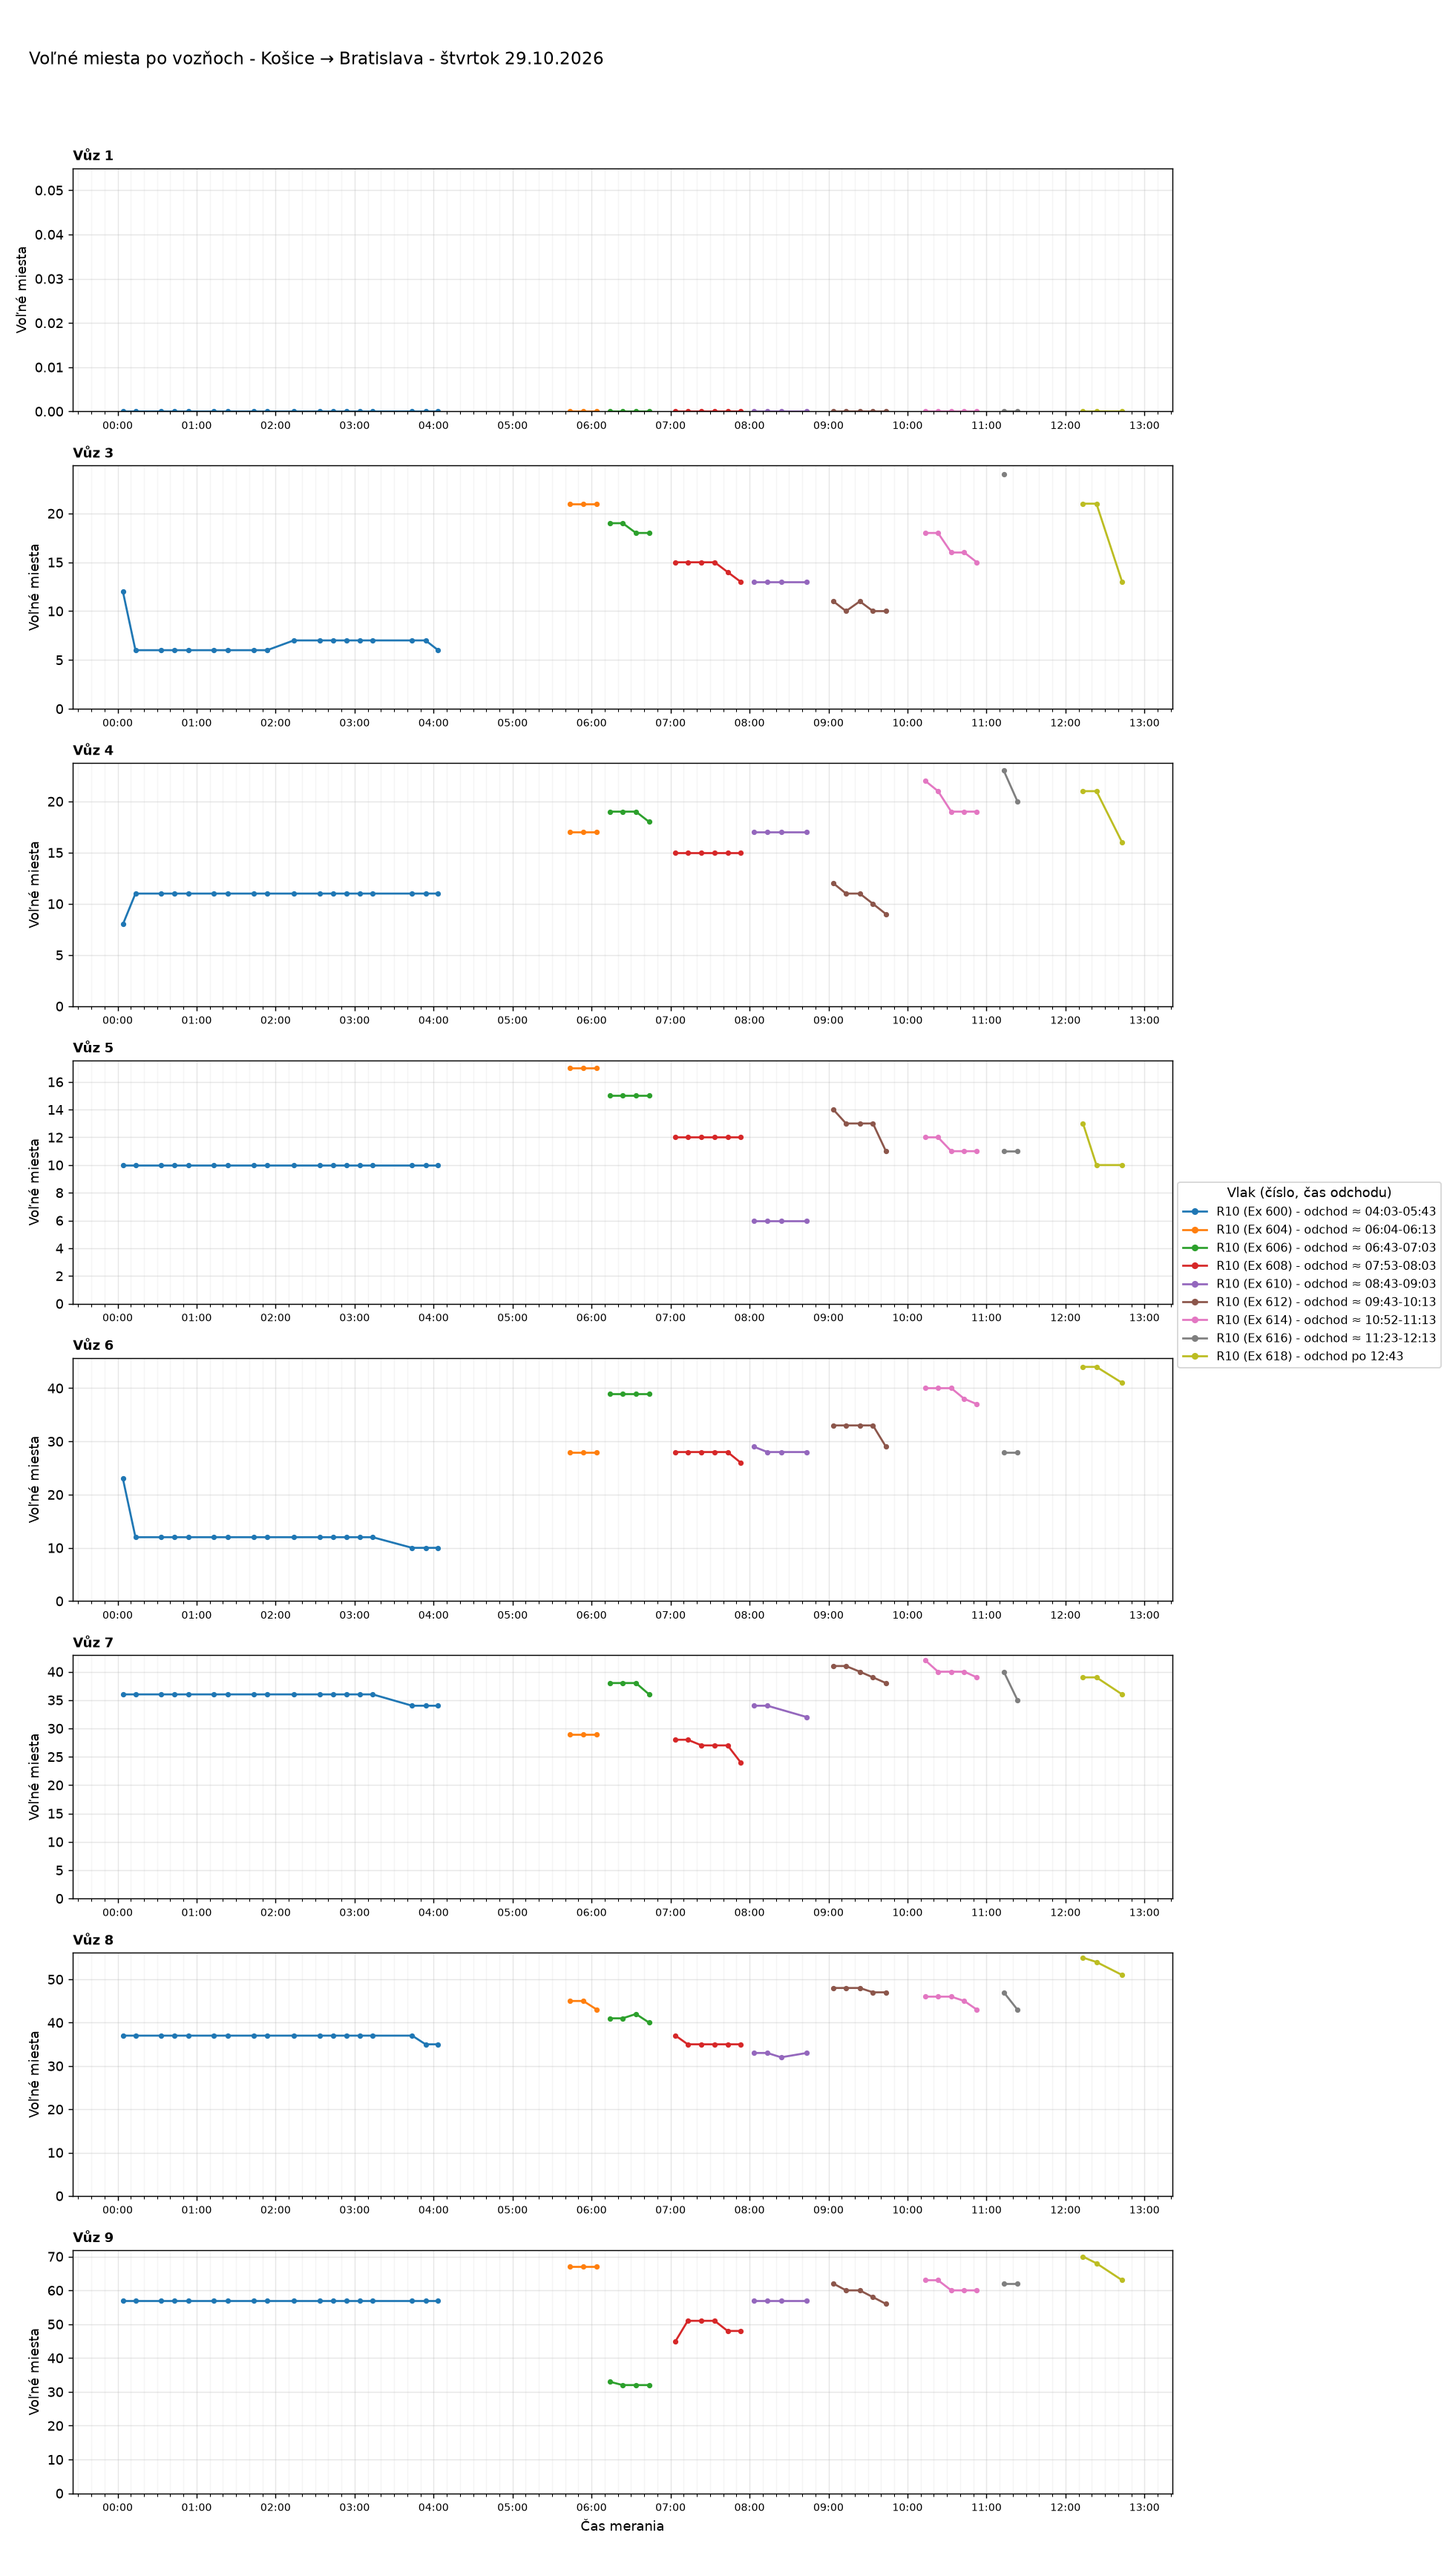
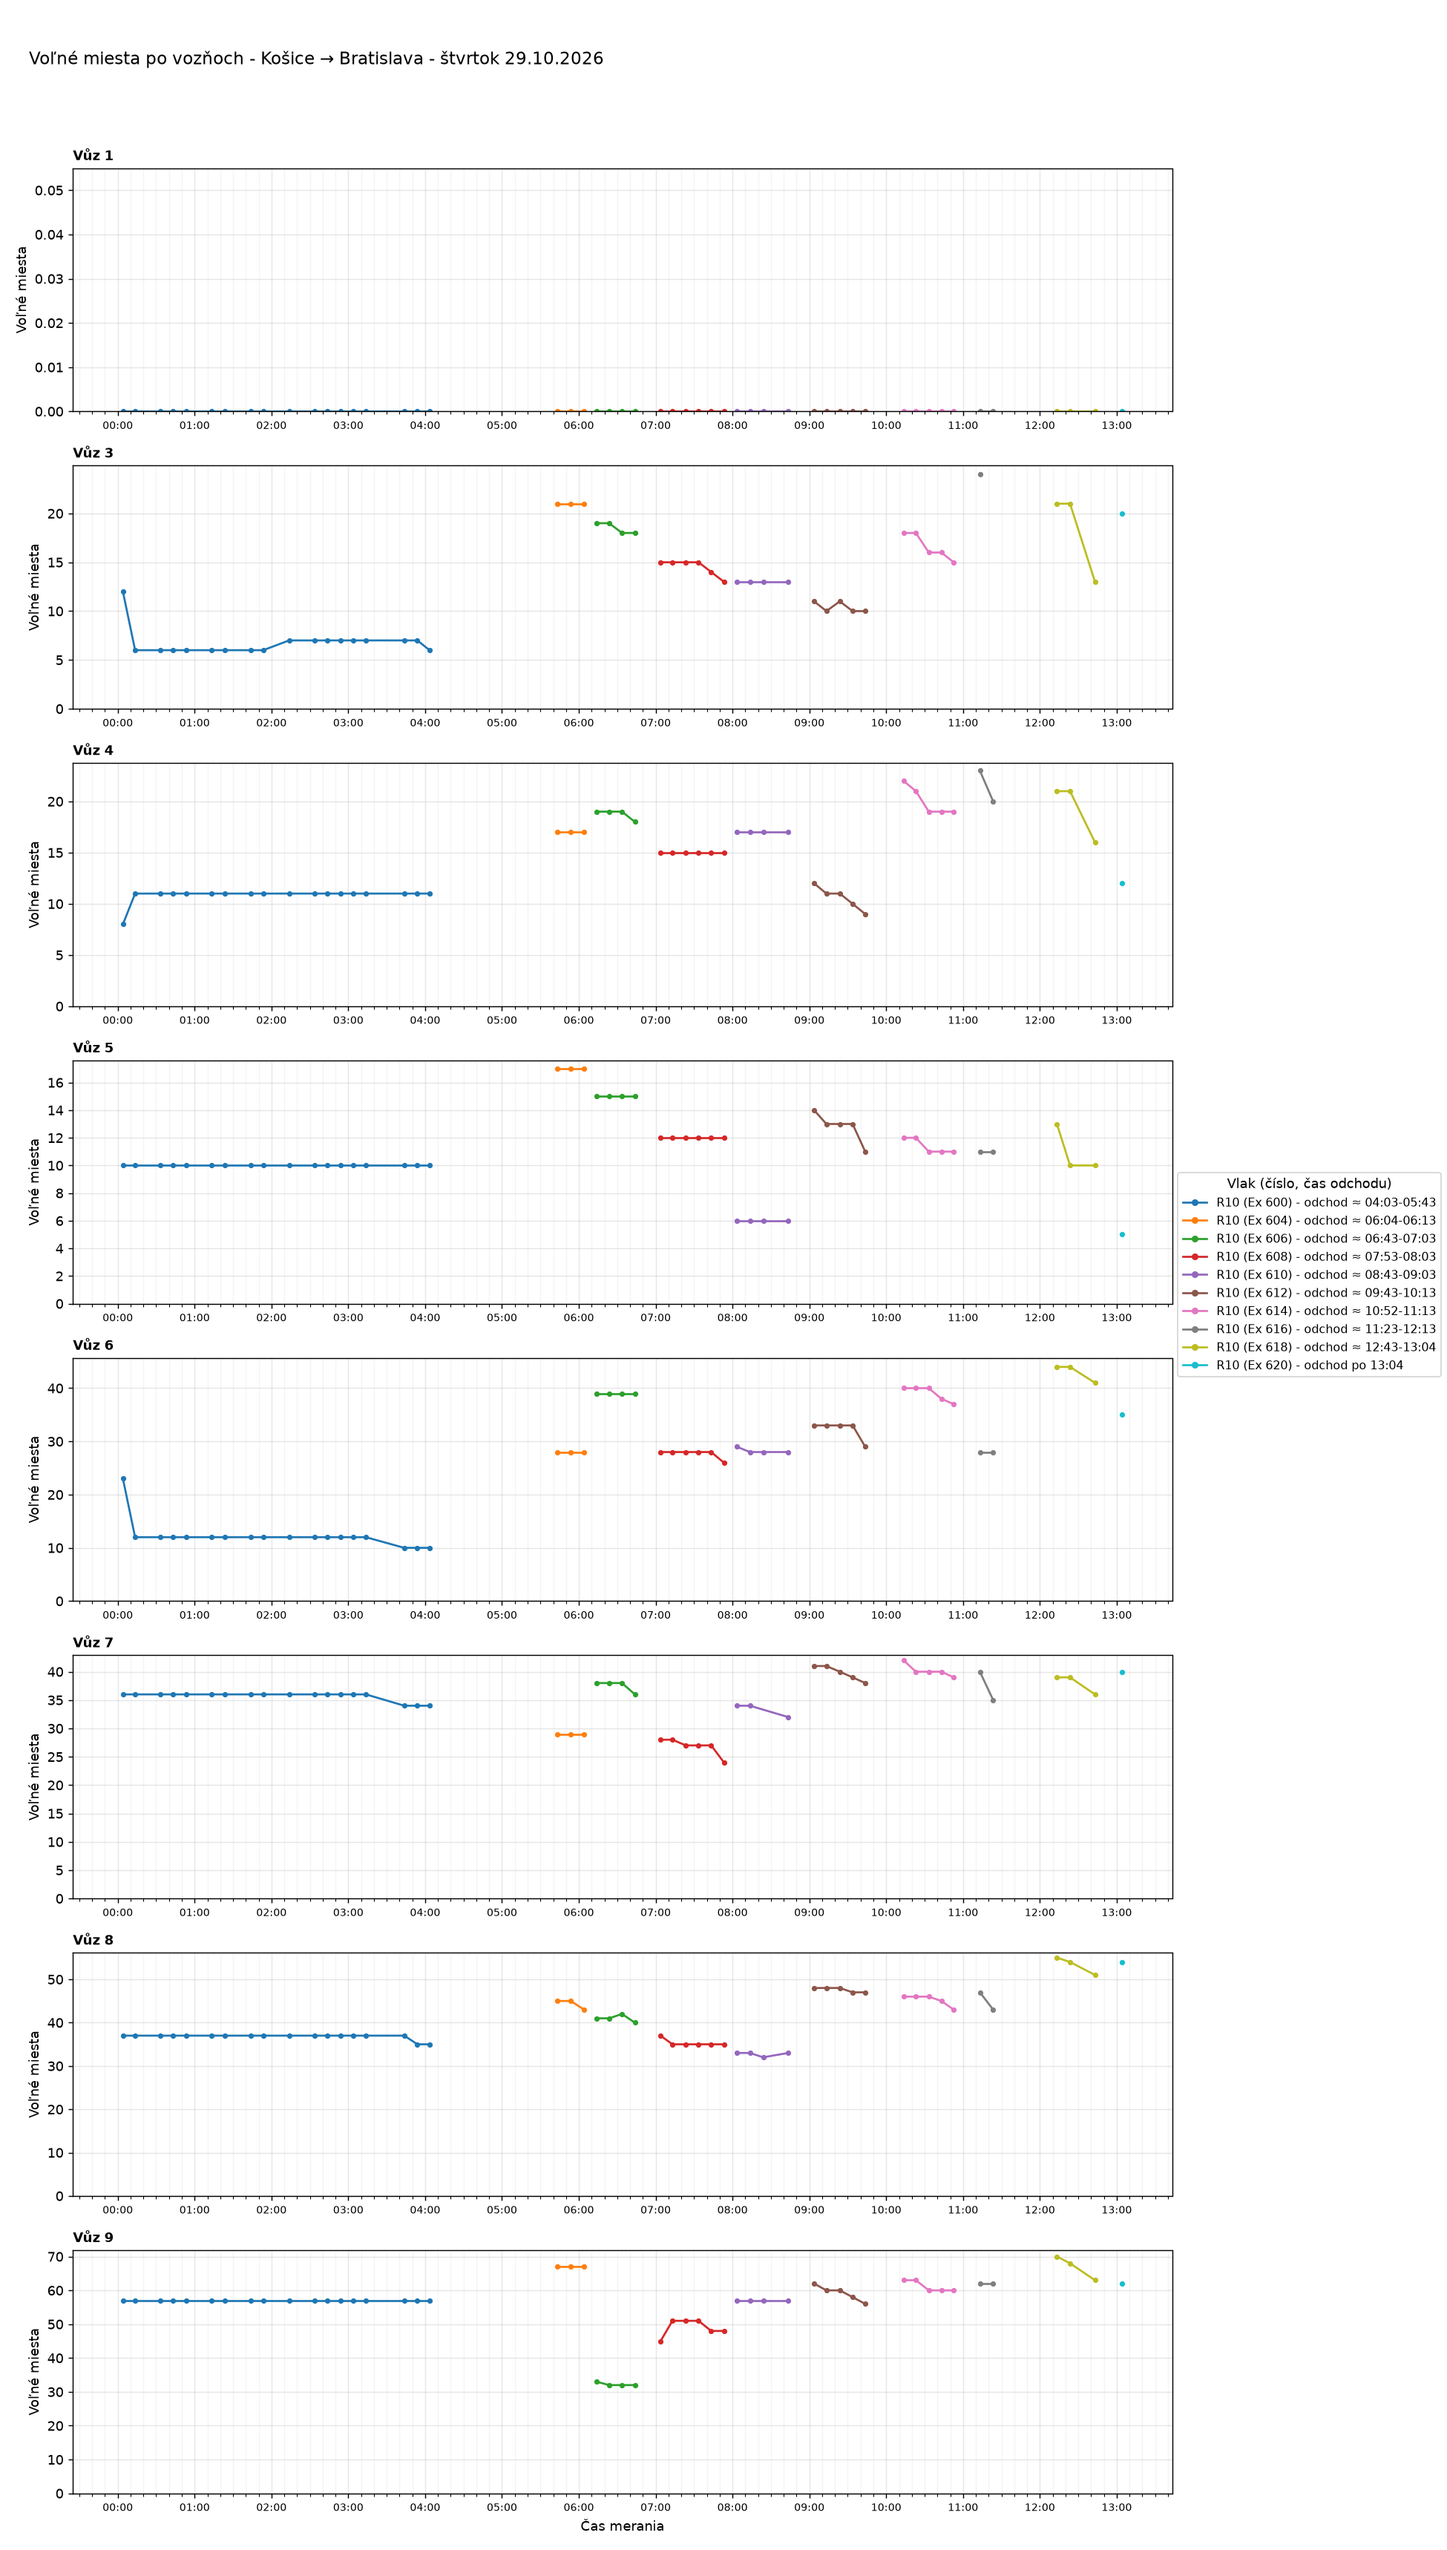
Aktualizácia grafov 2026-10-29 13:07

Changed region(s): [[0.8, 0.4671, 1.0, 0.5605]]

diff --git a/index.html b/index.html
@@ -37,7 +37,7 @@ details.trasa>summary{cursor:pointer;font-weight:600;font-size:1.1rem;padding:8p
 <body>
 <main>
 <h1>Voľné miesta vo vlakoch</h1>
-<p class="muted">Posledné meranie: 29.10.2026 12:52 ·
+<p class="muted">Posledné meranie: 29.10.2026 13:04 ·
 <a href="data/obsadenost_data.csv">stiahnuť dáta (CSV)</a></p>
 <nav class="nav"><a href="#suhrn">Súhrn</a><a href="#statistiky">Štatistiky</a><a href="#historia">História grafov</a></nav>
 
@@ -47,9 +47,9 @@ details.trasa>summary{cursor:pointer;font-weight:600;font-size:1.1rem;padding:8p
 <thead><tr><th>Deň</th><th>Trasa</th><th>Meraní</th><th>Vlakov</th><th>Čas meraní</th></tr></thead>
 <tbody>
 <tr><td><a href="#dBA-VR-2026-10-29">štvrtok 29.10.2026</a></td><td>Bratislava → Vrútky</td><td>63</td><td>8</td><td>00:01-12:51</td></tr>
-<tr><td><a href="#dVR-BA-2026-10-29">štvrtok 29.10.2026</a></td><td>Vrútky → Bratislava</td><td>50</td><td>9</td><td>02:42-12:52</td></tr>
-<tr><td><a href="#dBA-KE-2026-10-29">štvrtok 29.10.2026</a></td><td>Bratislava → Košice</td><td>56</td><td>9</td><td>00:03-12:52</td></tr>
-<tr><td><a href="#dKE-BA-2026-10-29">štvrtok 29.10.2026</a></td><td>Košice → Bratislava</td><td>50</td><td>9</td><td>00:04-12:43</td></tr>
+<tr><td><a href="#dVR-BA-2026-10-29">štvrtok 29.10.2026</a></td><td>Vrútky → Bratislava</td><td>51</td><td>9</td><td>02:42-13:02</td></tr>
+<tr><td><a href="#dBA-KE-2026-10-29">štvrtok 29.10.2026</a></td><td>Bratislava → Košice</td><td>57</td><td>9</td><td>00:03-13:03</td></tr>
+<tr><td><a href="#dKE-BA-2026-10-29">štvrtok 29.10.2026</a></td><td>Košice → Bratislava</td><td>51</td><td>10</td><td>00:04-13:04</td></tr>
 <tr><td><a href="#dBA-VR-2026-10-28">streda 28.10.2026</a></td><td>Bratislava → Vrútky</td><td>148</td><td>16</td><td>00:03-23:51</td></tr>
 <tr><td><a href="#dVR-BA-2026-10-28">streda 28.10.2026</a></td><td>Vrútky → Bratislava</td><td>65</td><td>13</td><td>08:02-20:22</td></tr>
 <tr><td><a href="#dBA-KE-2026-10-28">streda 28.10.2026</a></td><td>Bratislava → Košice</td><td>66</td><td>12</td><td>07:46-23:52</td></tr>
